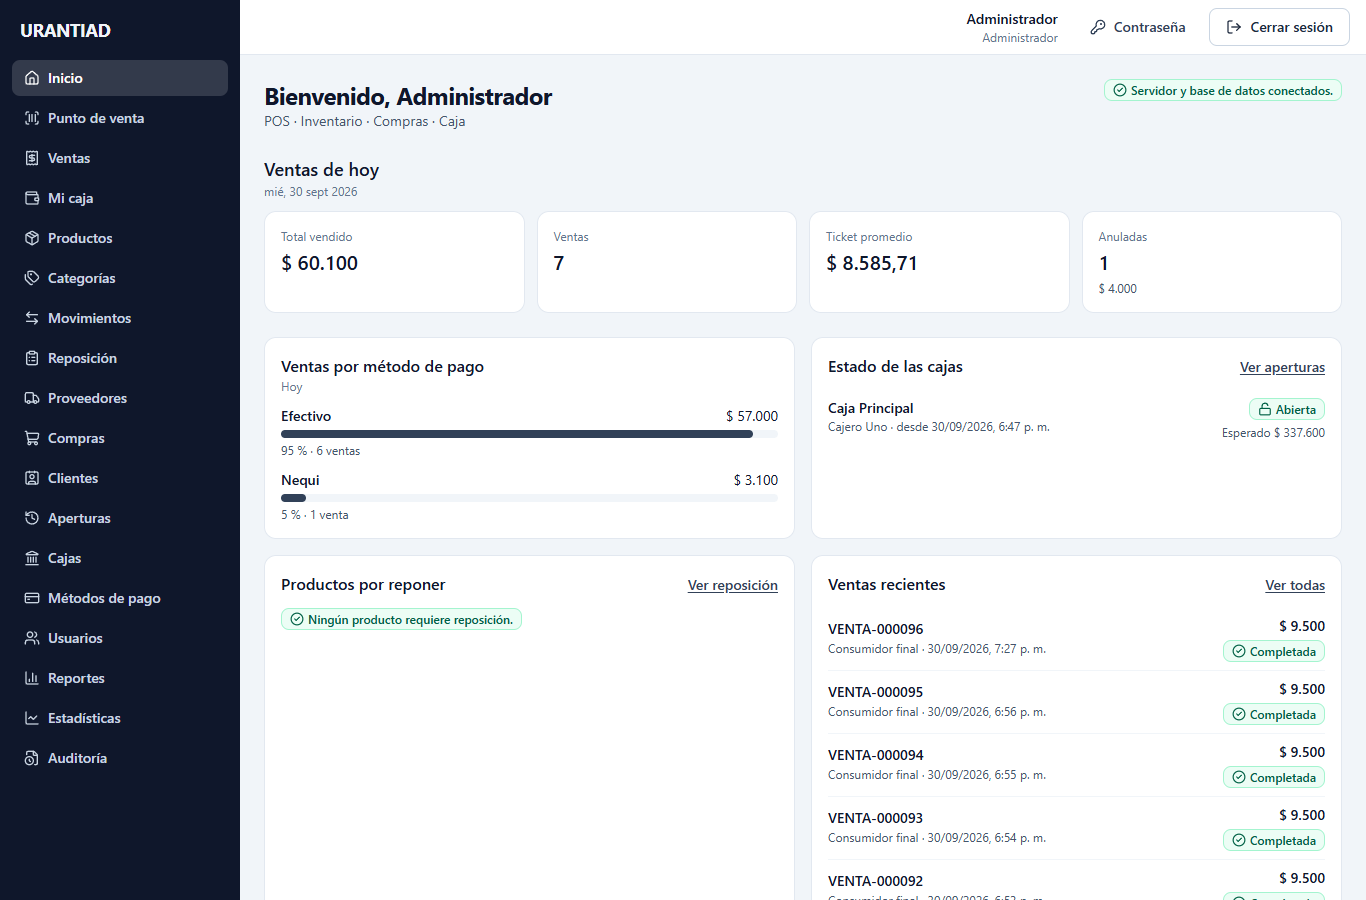
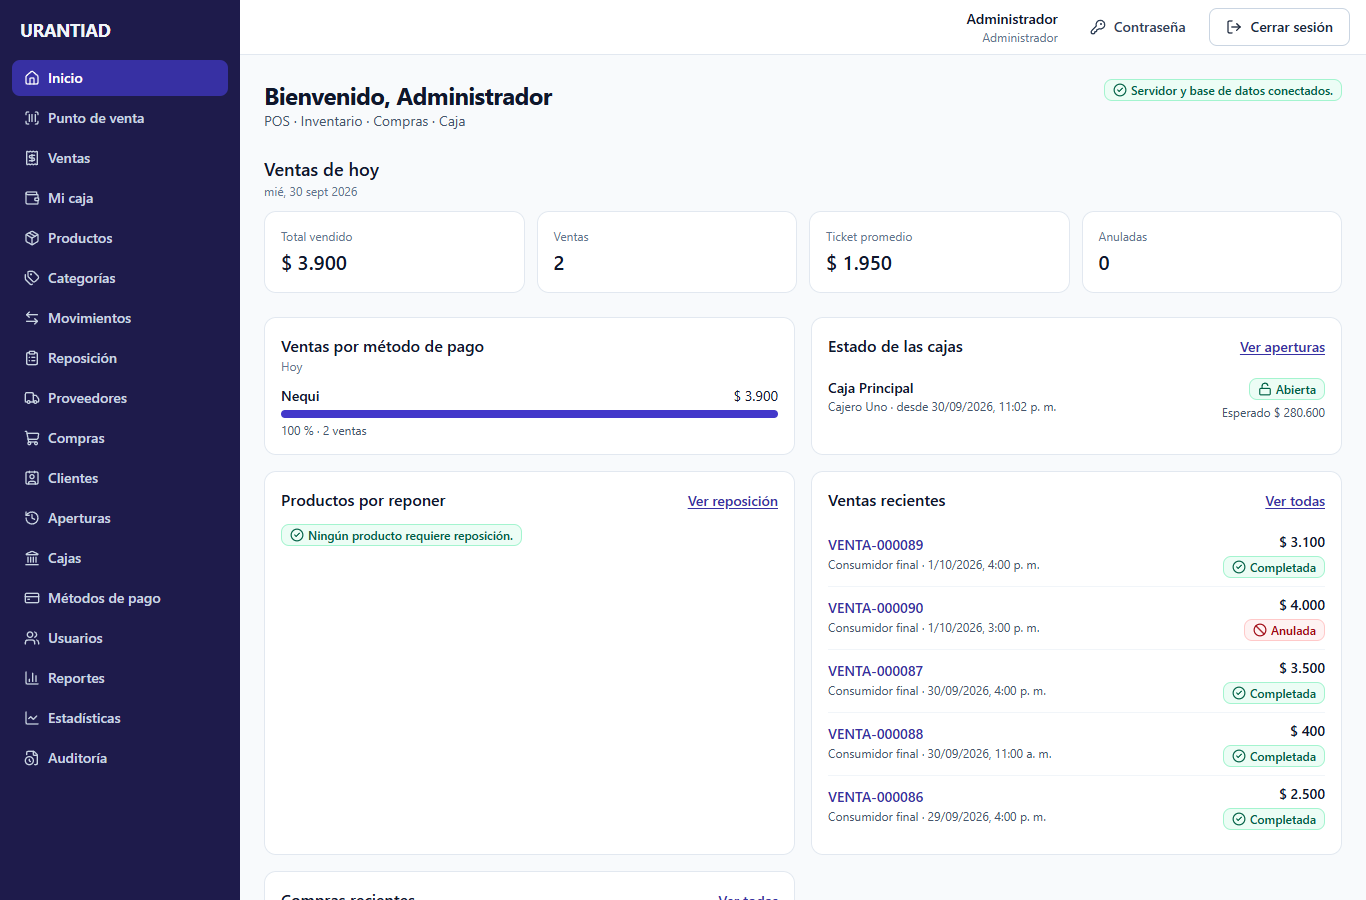
chore: poll file changes in the dev frontend container docs: update README screenshots with the indigo design

diff --git a/frontend/vite.config.ts b/frontend/vite.config.ts
@@ -12,6 +12,9 @@ export default defineConfig({
   server: {
     host: true,
     port: 5173,
+    // Docker on Windows does not forward file change events into the container, so the dev
+    // server polls the files instead (set by docker-compose.yml only).
+    watch: process.env.WATCH_POLLING === 'true' ? { usePolling: true, interval: 300 } : undefined,
   },
   test: {
     environment: 'jsdom',
